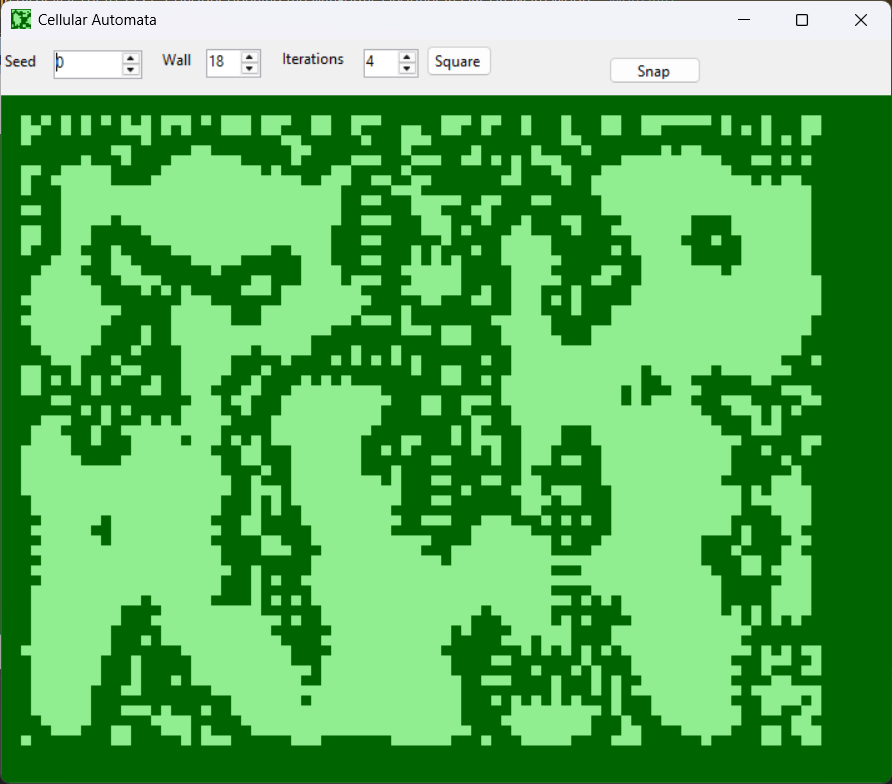
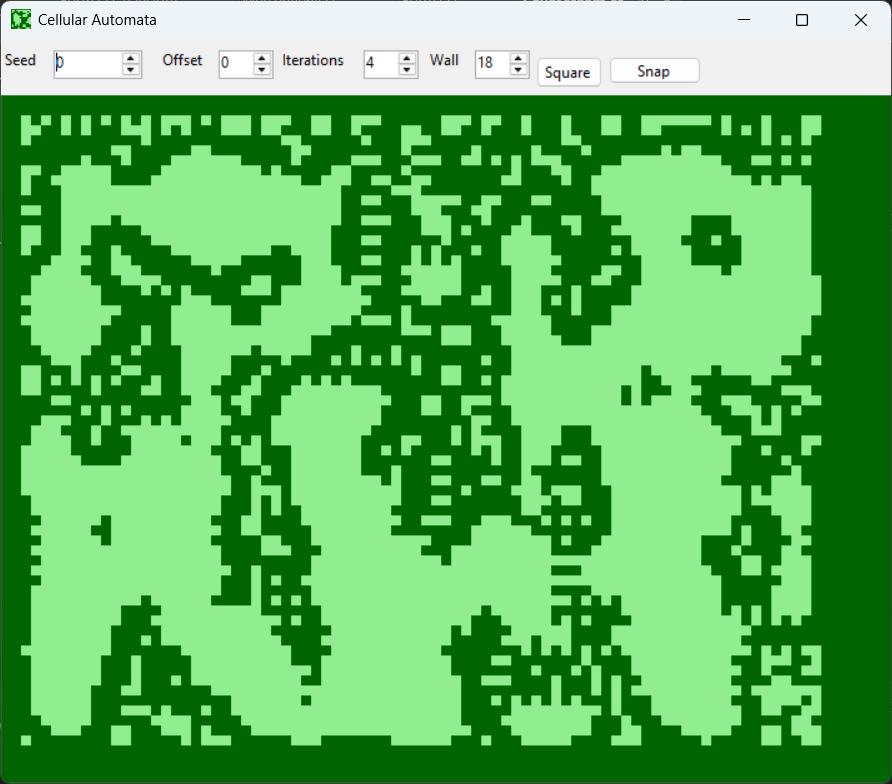
Horizontal offset.

Changed region(s): [[0.1816, 0.0612, 0.6659, 0.1224], [0.0, 0.0612, 0.0605, 0.0918], [0.9989, 0.0, 1.0, 0.0306]]

diff --git a/Cave/Form1.Designer.cs b/Cave/Form1.Designer.cs
@@ -31,16 +31,19 @@
             System.ComponentModel.ComponentResourceManager resources = new System.ComponentModel.ComponentResourceManager(typeof(Form1));
             pictureBox1 = new PictureBox();
             numSeed = new NumericUpDown();
+            numOffs = new NumericUpDown();
             numIter = new NumericUpDown();
             numPerc = new NumericUpDown();
             lblSeed = new Label();
-            lblPerc = new Label();
+            lblOffset = new Label();
             lblIter = new Label();
+            lblPerc = new Label();
             cbxSquareHex = new CheckBox();
             btnSnap = new Button();
             ((System.ComponentModel.ISupportInitialize)pictureBox1).BeginInit();
             ((System.ComponentModel.ISupportInitialize)numSeed).BeginInit();
             ((System.ComponentModel.ISupportInitialize)numIter).BeginInit();
+            ((System.ComponentModel.ISupportInitialize)numOffs).BeginInit();
             ((System.ComponentModel.ISupportInitialize)numPerc).BeginInit();
             SuspendLayout();
             // 
@@ -54,66 +57,82 @@
             pictureBox1.TabStop = false;
             pictureBox1.Paint += pictureBox1_Paint;
             // 
+            // lblSeed
+            // 
+            lblSeed.AutoSize = true;
+            lblSeed.Location = new Point(0, 12);
+            lblSeed.Name = "lblSeed";
+            lblSeed.Size = new Size(42, 20);
+            lblSeed.TabIndex = 1;
+            lblSeed.Text = "Seed";
+            // 
             // numSeed
             // 
             numSeed.Location = new Point(48, 12);
             numSeed.Maximum = new decimal(new int[] { 99999, 0, 0, 0 });
             numSeed.Name = "numSeed";
             numSeed.Size = new Size(81, 27);
-            numSeed.TabIndex = 1;
+            numSeed.TabIndex = 2;
             // 
-            // numIter
+            // lblOffset
             // 
-            numIter.Location = new Point(331, 10);
-            numIter.Maximum = new decimal(new int[] { 25, 0, 0, 0 });
-            numIter.Name = "numIter";
-            numIter.Size = new Size(50, 27);
-            numIter.TabIndex = 3;
-            numIter.Value = new decimal(new int[] { 1, 0, 0, 0 });
+            lblOffset.AutoSize = true;
+            lblOffset.Location = new Point(144, 12);
+            lblOffset.Name = "lblOffset";
+            lblOffset.Size = new Size(49, 20);
+            lblOffset.TabIndex = 3;
+            lblOffset.Text = "Offset";
             // 
-            // numPerc
+            // numOffs
             // 
-            numPerc.Location = new Point(188, 11);
-            numPerc.Name = "numPerc";
-            numPerc.Size = new Size(50, 27);
-            numPerc.TabIndex = 2;
-            // 
-            // lblSeed
-            // 
-            lblSeed.AutoSize = true;
-            lblSeed.Location = new Point(0, 13);
-            lblSeed.Name = "lblSeed";
-            lblSeed.Size = new Size(42, 20);
-            lblSeed.TabIndex = 4;
-            lblSeed.Text = "Seed";
-            // 
-            // lblPerc
-            // 
-            lblPerc.AutoSize = true;
-            lblPerc.Location = new Point(144, 12);
-            lblPerc.Name = "lblPerc";
-            lblPerc.Size = new Size(38, 20);
-            lblPerc.TabIndex = 5;
-            lblPerc.Text = "Wall";
+            numOffs.Location = new Point(199, 12);
+            numOffs.Name = "numOffs";
+            numOffs.Size = new Size(50, 27);
+            numOffs.TabIndex = 4;
             // 
             // lblIter
             // 
             lblIter.AutoSize = true;
-            lblIter.Location = new Point(254, 11);
+            lblIter.Location = new Point(254, 12);
             lblIter.Name = "lblIter";
             lblIter.Size = new Size(71, 20);
-            lblIter.TabIndex = 6;
+            lblIter.TabIndex = 5;
             lblIter.Text = "Iterations";
+            // 
+            // numIter
+            // 
+            numIter.Location = new Point(331, 12);
+            numIter.Maximum = new decimal(new int[] { 25, 0, 0, 0 });
+            numIter.Name = "numIter";
+            numIter.Size = new Size(50, 27);
+            numIter.TabIndex = 6;
+            numIter.Value = new decimal(new int[] { 1, 0, 0, 0 });
+            // 
+            // lblPerc
+            // 
+            lblPerc.AutoSize = true;
+            lblPerc.Location = new Point(389, 12);
+            lblPerc.Name = "lblPerc";
+            lblPerc.Size = new Size(38, 20);
+            lblPerc.TabIndex = 7;
+            lblPerc.Text = "Wall";
+            // 
+            // numPerc
+            // 
+            numPerc.Location = new Point(433, 12);
+            numPerc.Name = "numPerc";
+            numPerc.Size = new Size(50, 27);
+            numPerc.TabIndex = 8;
             // 
             // cbxSquareHex
             // 
             cbxSquareHex.Appearance = Appearance.Button;
             cbxSquareHex.AutoSize = true;
-            cbxSquareHex.Location = new Point(389, 7);
+            cbxSquareHex.Location = new Point(489, 19);
             cbxSquareHex.Margin = new Padding(3, 4, 3, 4);
             cbxSquareHex.Name = "cbxSquareHex";
             cbxSquareHex.Size = new Size(65, 30);
-            cbxSquareHex.TabIndex = 7;
+            cbxSquareHex.TabIndex = 9;
             cbxSquareHex.Text = "Square";
             cbxSquareHex.UseVisualStyleBackColor = true;
             cbxSquareHex.CheckedChanged += cbxSquareHex_CheckedChanged;
@@ -122,8 +141,8 @@
             // 
             btnSnap.Location = new Point(556, 19);
             btnSnap.Name = "btnSnap";
-            btnSnap.Size = new Size(85, 29);
-            btnSnap.TabIndex = 8;
+            btnSnap.Size = new Size(85, 30);
+            btnSnap.TabIndex = 10;
             btnSnap.Text = "Snap";
             btnSnap.UseVisualStyleBackColor = true;
             btnSnap.Click += btnSnap_Click;
@@ -135,12 +154,14 @@
             ClientSize = new Size(814, 793);
             Controls.Add(btnSnap);
             Controls.Add(cbxSquareHex);
+            Controls.Add(lblSeed);
+            Controls.Add(lblOffset);
             Controls.Add(lblIter);
             Controls.Add(lblPerc);
-            Controls.Add(lblSeed);
-            Controls.Add(numPerc);
-            Controls.Add(numIter);
             Controls.Add(numSeed);
+            Controls.Add(numOffs);
+            Controls.Add(numIter);
+            Controls.Add(numPerc);
             Controls.Add(pictureBox1);
             Icon = (Icon)resources.GetObject("$this.Icon");
             Name = "Form1";
@@ -150,6 +171,7 @@
             ((System.ComponentModel.ISupportInitialize)pictureBox1).EndInit();
             ((System.ComponentModel.ISupportInitialize)numSeed).EndInit();
             ((System.ComponentModel.ISupportInitialize)numIter).EndInit();
+            ((System.ComponentModel.ISupportInitialize)numOffs).EndInit();
             ((System.ComponentModel.ISupportInitialize)numPerc).EndInit();
             ResumeLayout(false);
             PerformLayout();
@@ -159,11 +181,13 @@
 
         private PictureBox pictureBox1;
         private NumericUpDown numSeed;
+        private NumericUpDown numOffs;
         private NumericUpDown numIter;
         private NumericUpDown numPerc;
         private Label lblSeed;
-        private Label lblPerc;
+        private Label lblOffset;
         private Label lblIter;
+        private Label lblPerc;
         private CheckBox cbxSquareHex;
         private Button btnSnap;
     }

diff --git a/Cave/CaveStream.cs b/Cave/CaveStream.cs
@@ -21,7 +21,7 @@
 
         private bool _hasWall;
         private int _iterations;
-        private UInt32 _topseed; //presently write-only, not floated to the UI.
+        private UInt64 _topseed, _xoffset; //presently write-only, not floated to the UI.
         private byte _perbyteAreWalls;
         private byte[] _randommap; //RAM hit, but improves perf for iteration-backtrack and seed-changes.
         private bool[] _map; //false is wall. true is hole in wall. Also I am told 2D arrays have overhead. I dunno about that but I did get Buffer.BulkCopy & pointers from 1D here.
@@ -36,13 +36,12 @@
 
         private Mersenne64 _randomSeed;
 
-        public CaveStream(uint width, uint height, byte percentAreWalls, bool isHex, uint topseed)
+        public CaveStream(bool isHex, uint width, uint height, ulong topseed, ulong xoffset, byte percentAreWalls)
         {
             _width = width;
             _adjacentWalls = isHex ? 4 : 5;
 
             _iterations = 0;
-            _topseed = topseed;
 
             //this scrolls down the pseudorandom-number generator (PRNG), rooted in zero.
 
@@ -54,7 +53,7 @@
             //I get connected spaces in the wall when wall-ratio is 18% or 60%.
             //37% worked well with Knuth past 64-width due to the artifacts; with better randomisers we get islands of rock.
             _randomSeed = new Mersenne64();
-            _randommap = FillRandom(height, _topseed);
+            _randommap = FillRandom(height, xoffset, topseed); //which also sets the x,y state
             _map = new bool[_width * height];
             if (percentAreWalls < 50) //false is light wall, true is dark hole in wall
                 _map = GetFrame();
@@ -219,13 +218,18 @@
             }
         }
 
-        private byte[] FillRandom(uint height, uint seed)
+        private byte[] FillRandom(uint height, ulong xoffset, ulong seed)
         {
             byte[] map = new byte[(height - 4) * (_width - 4)];
             uint x = 0;
-            for (uint y = seed; y < seed + height - 4; y++)
+            for (ulong y = seed; y < seed + height - 4; y++)
             {
                 _randomSeed.sgenrand(y); //thus making a 2D scale riverworld
+                ulong offs = 0;
+                while (offs++ < xoffset)
+                {
+                    _randomSeed.genrand(); //the other dimension
+                }
                 foreach (var horizBytes in FillLine(_randomSeed))
                 {
                     Array.Copy(horizBytes, 0, map, x, 8);
@@ -290,10 +294,11 @@
 
         //features to change the state efficiently
 
-        public void RedoRandom(uint seed)
+        public void RedoRandom(ulong seed, ulong xoffset)
         {
+            _xoffset = xoffset;
             _topseed = seed;
-            _randommap = FillRandom((uint)(_map.Length / _width), seed);
+            _randommap = FillRandom((uint)(_map.Length / _width), xoffset, seed);
         }
 
         public void SetFirstMap(byte percentAreWalls)
@@ -395,7 +400,7 @@
             uint height = (uint)(_map.Length / _width);
 
             //possible to put these in separate Task, but the savings weren't really there
-            uint seed = _topseed + height - 4; // cf. FillRandom (and FillSquare). -4 b/c x is going to end before taking in the last row of nothing
+            ulong seed = _topseed + height - 4; // cf. FillRandom (and FillSquare). -4 b/c x is going to end before taking in the last row of nothing
 
             var byteWidth = _width - 4;
             uint randomMapCursor = (uint)((height - bump - 4) * byteWidth); //would be -2 and just width if the randommap were including the frame
@@ -405,6 +410,11 @@
             for (int i = 0; i < bump; i++)
             {
                 _randomSeed.sgenrand(seed++);
+                ulong offs = 0;
+                while (offs++ < _xoffset)
+                {
+                    _randomSeed.genrand();
+                }
                 foreach (var horizBytes in FillLine(_randomSeed))
                 {
                     Array.Copy(horizBytes, 0, _randommap, randomMapCursor, 8);

diff --git a/Cave/Form1.cs b/Cave/Form1.cs
@@ -12,7 +12,7 @@
         private const int SQUARE_OFFSET = 40;
         private const int HEX_OFFSET = 30;
 
-        private uint seed;
+        private ulong seed, offs;
         private int iters, contentwidth, contentheight, offset;
         private byte wallperc;
         private CaveStream _caveStream;
@@ -22,6 +22,7 @@
             InitializeComponent();
 
             seed = 0;
+            offs = 0;
             iters = 4;
             wallperc = 18;
         }
@@ -30,10 +31,12 @@
         {
             numSeed.Value = seed;
             numIter.Value = iters;
+            numOffs.Value = offs;
             numPerc.Value = wallperc;
             numSeed.ValueChanged += numSeed_ValueChanged;
-            numIter.ValueChanged += numIter_ValueChanged;
             numPerc.ValueChanged += numPerc_ValueChanged;
+            numOffs.ValueChanged += numOffs_ValueChanged;
+            numIter.ValueChanged += numIter_ValueChanged;
             this.OnResize(EventArgs.Empty); //call Form1_Resize, as to fit picturebox to form
             Snap();
         }
@@ -65,6 +68,33 @@
             }
         }
 
+        private void numSeed_ValueChanged(object sender, EventArgs e)
+        {
+            var newseed = (ulong)numSeed.Value;
+            short forwardSeed = (short)(newseed - seed);
+            seed = newseed;
+            if (forwardSeed == 1)//> 0 && forwardSeed < contentheight - 2)
+            {
+                //iters = 0; //TROUBLESHOOT the rnd. of course snap is broken until we do this. right now changing the wall%s will reset
+                _caveStream.BumpSeed(forwardSeed);
+            }
+            else
+            {
+                _caveStream.RedoRandom(newseed, offs);
+                _caveStream.SetFirstMap(wallperc);
+                _caveStream.Iterate(iters);
+            }
+            pictureBox1.Refresh();
+        }
+        private void numOffs_ValueChanged(object sender, EventArgs e)
+        {
+            offs = (ulong)numOffs.Value;
+            _caveStream.RedoRandom(seed, offs);
+            _caveStream.SetFirstMap(wallperc);
+            _caveStream.Iterate(iters);
+            pictureBox1.Refresh();
+        }
+
         private void numIter_ValueChanged(object sender, EventArgs e)
         {
             int newiters = (int)numIter.Value;
@@ -82,25 +112,7 @@
             }
             pictureBox1.Refresh();
         }
-        
-        private void numSeed_ValueChanged(object sender, EventArgs e)
-        {
-            var newseed = (uint)numSeed.Value;
-            short forwardSeed = (short)(newseed - seed);
-            seed = newseed;
-            if (forwardSeed == 1)//> 0 && forwardSeed < contentheight - 2)
-            {
-                //iters = 0; //TROUBLESHOOT the rnd. of course snap is broken until we do this. right now changing the wall%s will reset
-                _caveStream.BumpSeed(forwardSeed);
-            }
-            else
-            {
-                _caveStream.RedoRandom(newseed);
-                _caveStream.SetFirstMap(wallperc);
-                _caveStream.Iterate(iters);
-            }
-            pictureBox1.Refresh();
-        }
+
         private void numPerc_ValueChanged(object sender, EventArgs e)
         {
             wallperc = (byte)numPerc.Value;
@@ -124,7 +136,7 @@
 
         private void ChangeCave()
         {
-            _caveStream = new CaveStream((uint)contentwidth, (uint)contentheight, wallperc, cbxSquareHex.Checked, seed);
+            _caveStream = new CaveStream(cbxSquareHex.Checked, (uint)contentwidth, (uint)contentheight, seed, offs, wallperc);
             _caveStream.Iterate(iters);
         }
         private void Snap()
